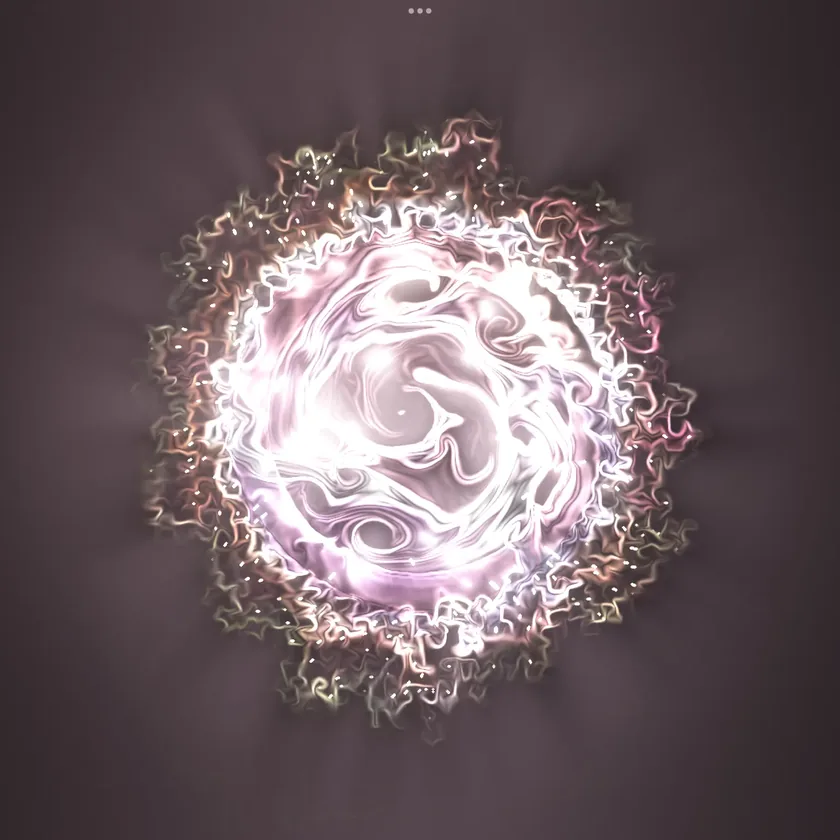
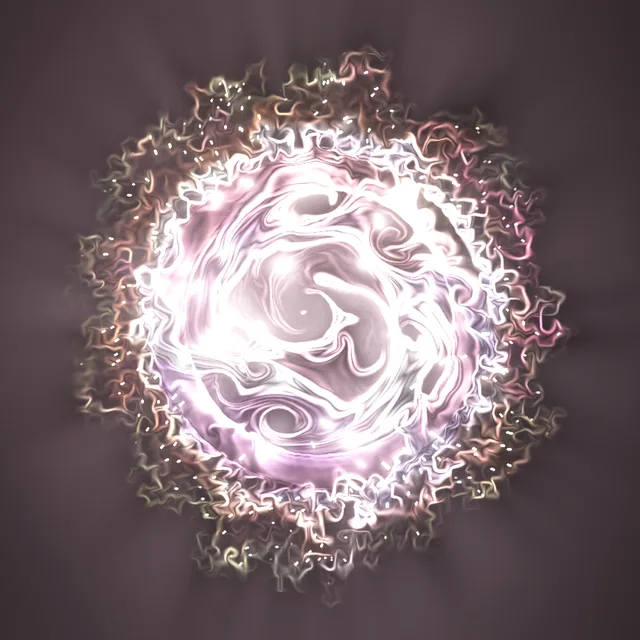
Add Astronomy and Vector Racing orb buttons

diff --git a/index.html b/index.html
@@ -55,10 +55,11 @@ main{position:relative;z-index:2;background:#000}
 main *,main *::before,main *::after{animation:none!important}
 .sr-only{position:absolute;width:1px;height:1px;overflow:hidden;clip:rect(0 0 0 0);white-space:nowrap}
 main #games{display:flex;justify-content:center;padding:4rem 1.2rem 5rem}
-.orb-btn{display:flex;align-items:center;justify-content:center;width:clamp(240px,80vw,400px);aspect-ratio:1;border-radius:50%;background:#000 url(assets/orb-button.webp) center/cover no-repeat;text-decoration:none;box-shadow:0 0 0 2px rgba(255,200,230,.25),0 0 40px rgba(255,170,220,.25);transition:transform .2s,box-shadow .2s}
+.orb-row{display:flex;flex-wrap:wrap;justify-content:center;gap:2rem}
+.orb-btn{display:flex;align-items:center;justify-content:center;width:clamp(220px,78vw,300px);aspect-ratio:1;border-radius:50%;background:#000 url(assets/orb-button.webp) center/cover no-repeat;text-decoration:none;box-shadow:0 0 0 2px rgba(255,200,230,.25),0 0 40px rgba(255,170,220,.25);transition:transform .2s,box-shadow .2s}
 .orb-btn:hover{transform:scale(1.03);box-shadow:0 0 0 2px rgba(255,200,230,.5),0 0 60px rgba(255,170,220,.45)}
 .orb-btn:focus-visible{outline:3px solid var(--lava3);outline-offset:6px}
-.orb-title{font-family:'Bungee',Impact,sans-serif;font-size:clamp(1.5rem,6vw,2.3rem);line-height:1.15;text-align:center;color:#fff;padding:0 12%;text-shadow:0 2px 4px #000,0 0 12px #000,0 0 24px rgba(0,0,0,.9)}
+.orb-title{font-family:'Bungee',Impact,sans-serif;font-size:clamp(1.4rem,5.5vw,1.9rem);line-height:1.15;text-align:center;color:#fff;padding:0 12%;text-shadow:0 2px 4px #000,0 0 12px #000,0 0 24px rgba(0,0,0,.9)}
 .tagline{text-shadow:0 2px 10px #000,0 0 4px #000}
 .hero-text::before{content:"";position:absolute;inset:-12% -18%;z-index:-1;background:radial-gradient(ellipse at center,rgba(8,4,3,.72),rgba(8,4,3,0) 70%);pointer-events:none}
 #embers{position:fixed;inset:0;pointer-events:none;z-index:1}
@@ -146,9 +147,17 @@ footer strong{color:var(--lava2)}
 <main>
 <section id="games">
  <h2 class="sr-only">Games</h2>
- <a class="orb-btn" href="https://mbj808.github.io/table-rush/" aria-label="Play Mad Facts Challenge">
-  <span class="orb-title" aria-hidden="true">Mad Facts Challenge</span>
- </a>
+ <div class="orb-row">
+  <a class="orb-btn" href="https://mbj808.github.io/table-rush/" aria-label="Play Mad Facts Challenge">
+   <span class="orb-title" aria-hidden="true">Mad Facts Challenge</span>
+  </a>
+  <a class="orb-btn" style="background-image:url(assets/astronomy-orb.webp)" href="https://stellarium-web.org" target="_blank" rel="noopener" aria-label="Astronomy: open Stellarium Web (opens in a new tab)">
+   <span class="orb-title" aria-hidden="true">Astronomy</span>
+  </a>
+  <a class="orb-btn" style="background-image:url(assets/vector-racing-orb.webp)" href="https://harmmade.com/vectorracer/" target="_blank" rel="noopener" aria-label="Play Vector Racing (opens in a new tab)">
+   <span class="orb-title" aria-hidden="true">Vector Racing</span>
+  </a>
+ </div>
 </section>
 
 <!-- Class News and About are hidden until they have real content. Remove these comment markers and restore the nav links to bring them back.
